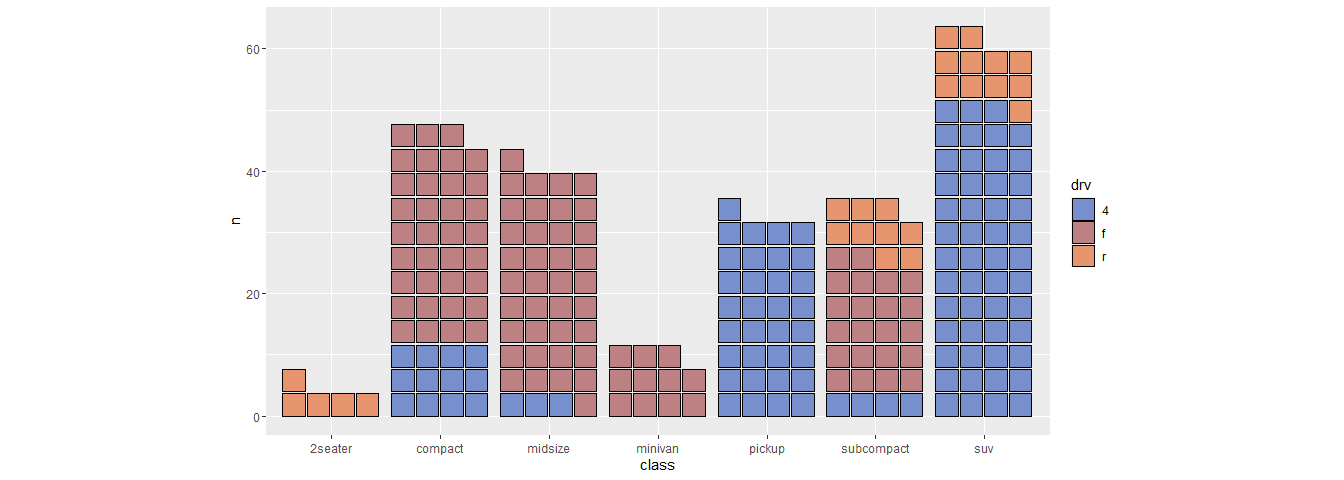
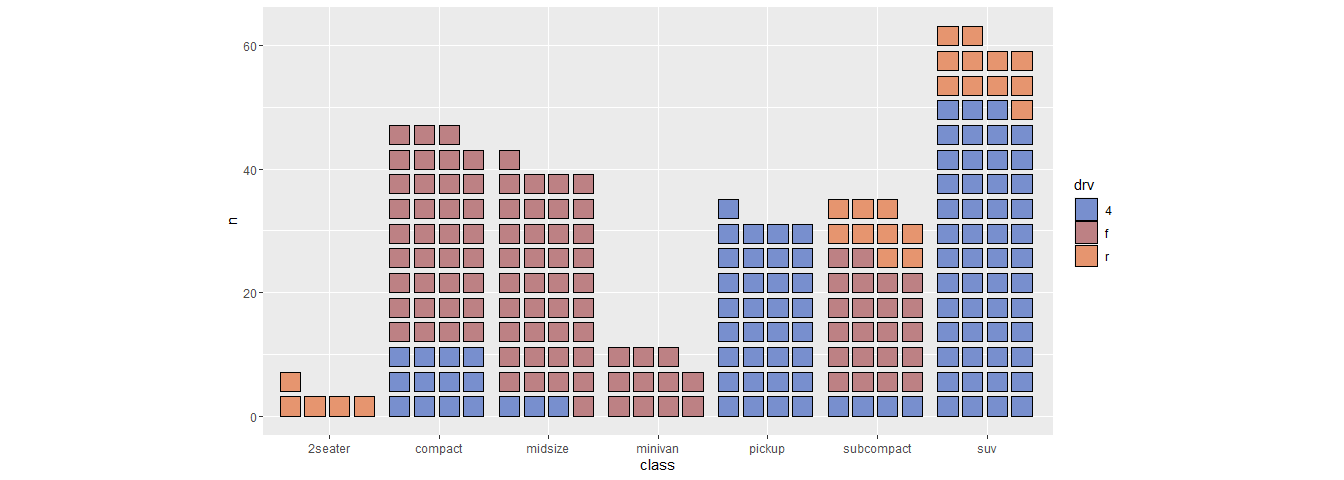
DOC update readme

diff --git a/README.md b/README.md
@@ -102,7 +102,7 @@ mpg |>
 mpg |>
   count(class, drv) |>
   ggplot() +
-  geom_waffle(aes(class, n, fill = drv))+
+  geom_waffle(aes(class, n, fill = drv), gap = 0.02)+
   coord_waffle() +
   scale_fill_manual(values = d10)
 ```
